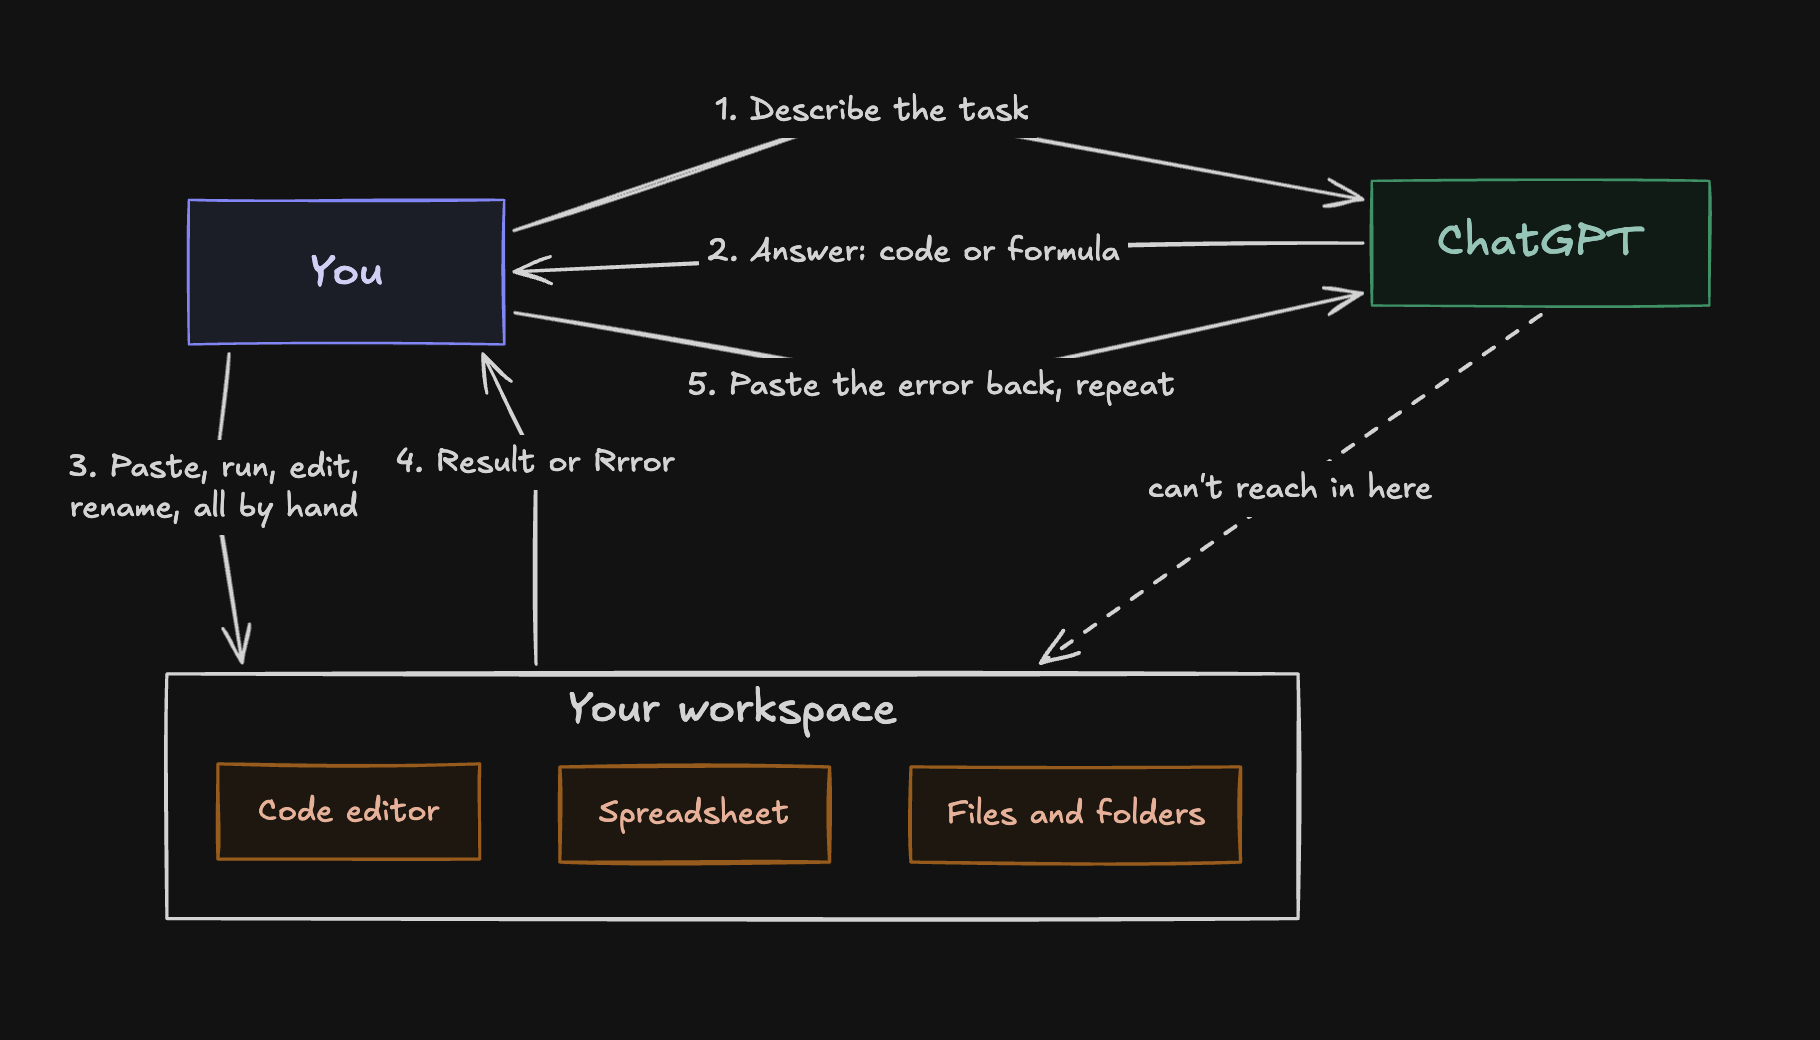
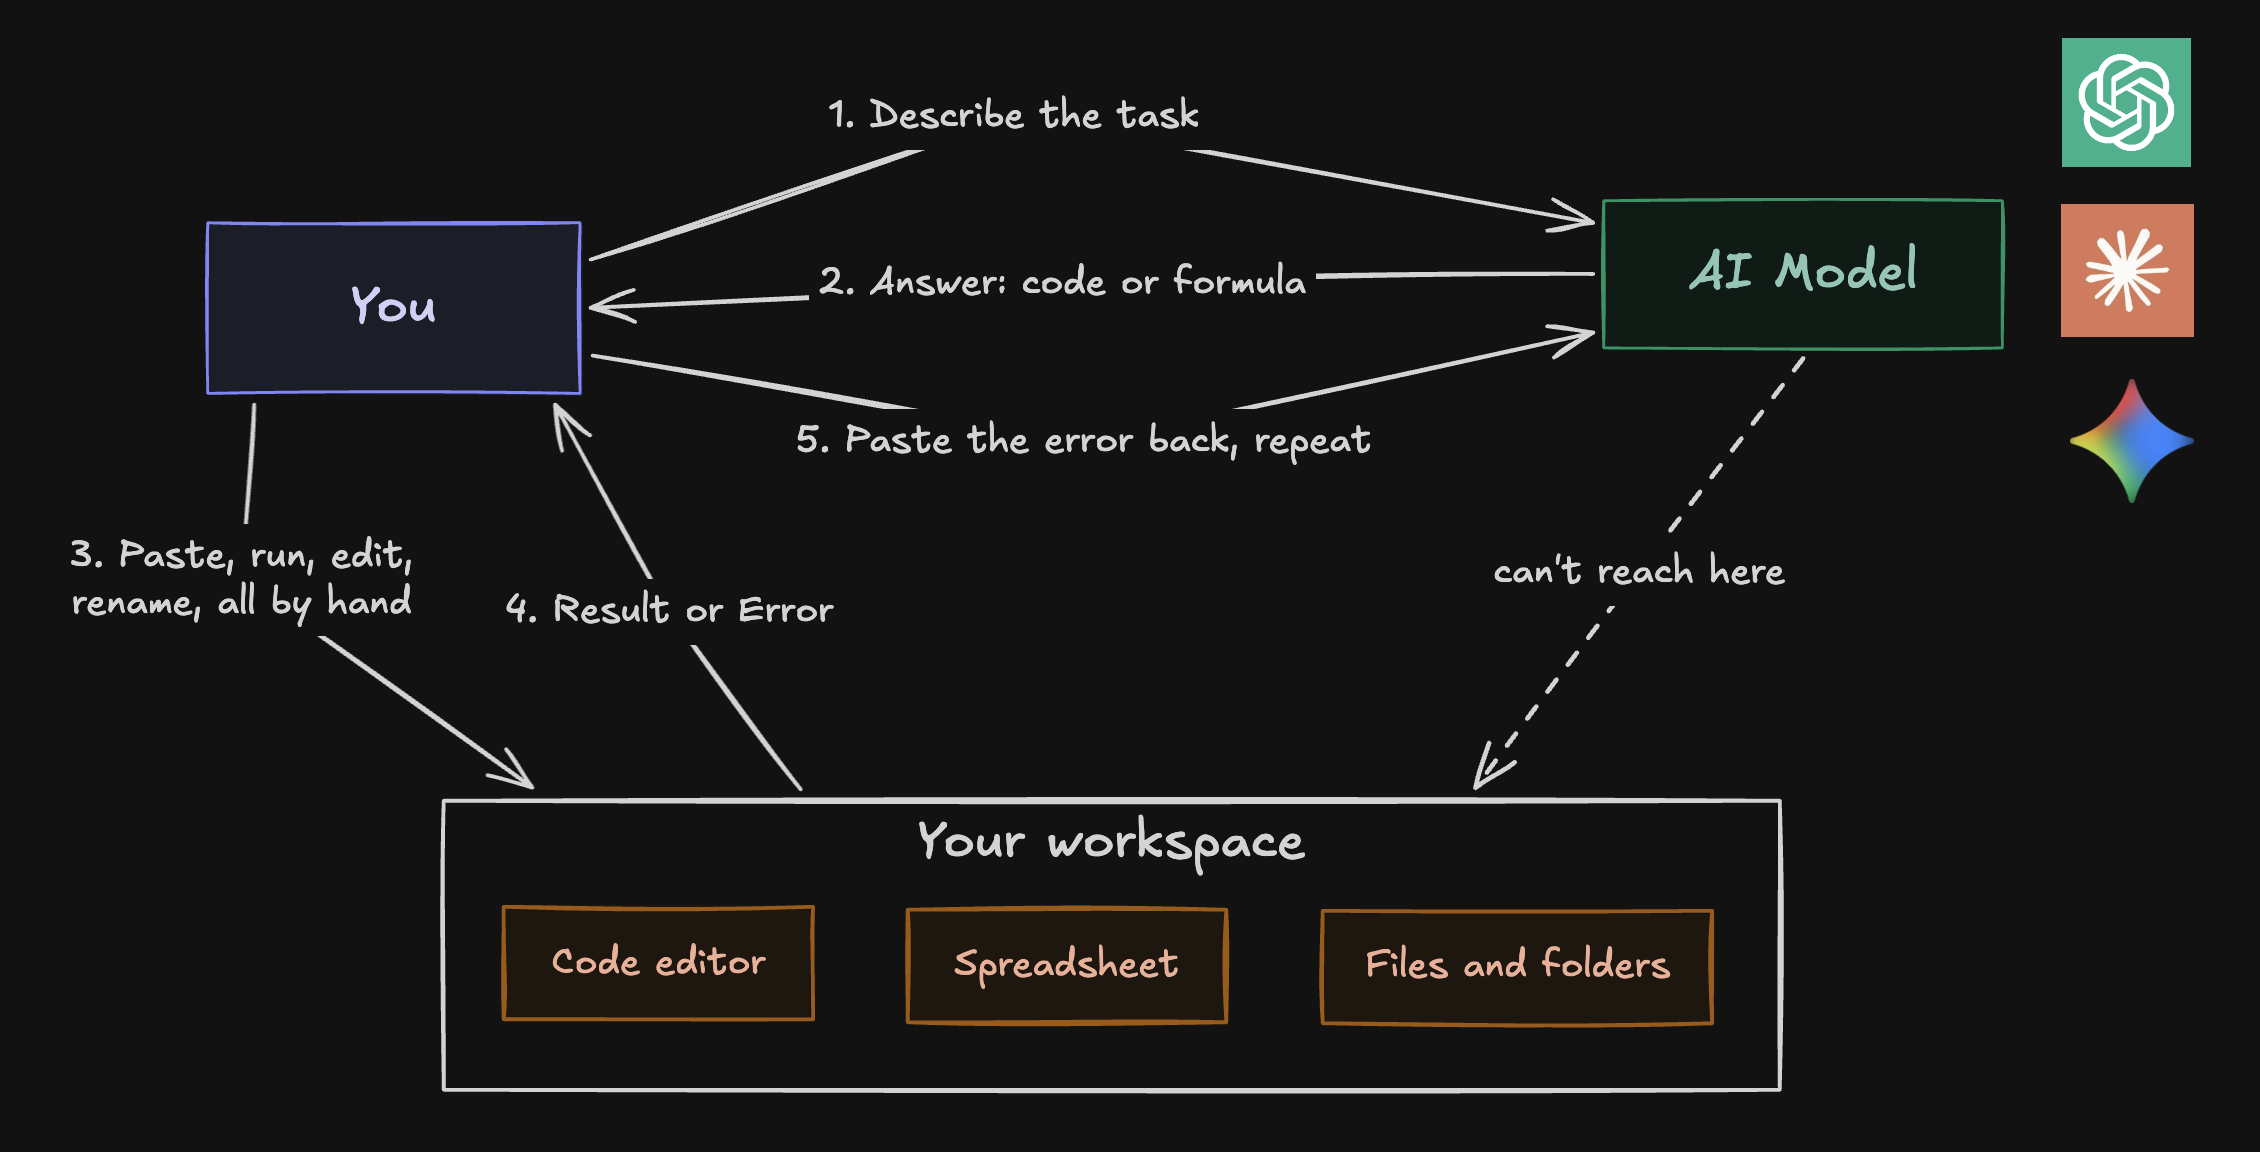
Rework intro scenarios, add agent/swap diagrams, fix post heading styles
Reframe the two opening scenarios (spreadsheet cross-check first, then
coding), add diagram-2 (coding agent) and diagram-3 (agent/model swap),
and restore h2/h3 styles in the post prose that Tailwind Preflight had
flattened. Copy edits throughout.

diff --git a/src/content/posts/set-up-your-ai-coding-agent.md b/src/content/posts/set-up-your-ai-coding-agent.md
@@ -8,11 +8,9 @@ tags: ["ai", "coding-agents", "guide"]
 
 You open [ChatGPT](https://chatgpt.com) or [Claude](https://claude.ai) and ask it to do something for you.
 
-Maybe you ask it to write a function. It writes a good one. You copy the code out, paste it into your editor, and hit run. Something breaks, so you copy the error back into the chat. It apologizes, hands you a fix, and you copy that one out too.
+Let's say it's part of your job, to do a comparison of two spreadsheets which has the same data from two different sources, every week. You have to find out and report the mismatches in the data. To save your time, you paste the spreadsheets into ChatGPT and ask it to do it for you, trusting that each time ChatGPT will do it with 100% accuracy. Another way is to ask ChatGPT for a formula that finds the mismatches and helps you generate a report. This is more accurate but you will have to do the process again if it's a different set of data in another domain.
 
-Or maybe you're pulling the same three fields out of thirty invoices into one spreadsheet. You ask it for a faster way. It explains the steps, or writes you a formula. You still open each file and key it in yourself, thirty times over.
-
-If you've done either, you know the loop. For a while it felt like magic. Maybe it still does, and maybe you still work this way.
+Or maybe you have some coding experience and ask it to write a function and it responds with some code. You copy the code, paste it into your editor, and hit run. Something breaks, so you paste the error back into the chat. It apologizes and hands you a fix, and you copy that one too and repeat.
 
 <figure class="diagram">
 <img class="theme-light-only" src="/images/posts/set-up-your-ai-coding-agent/diagram-1-chat-loop.light.png" alt="You sit between the chat model and your workspace. Every step to your files, editor, and spreadsheet passes through you by hand, and the model never reaches into the workspace." />
@@ -20,9 +18,25 @@ If you've done either, you know the loop. For a while it felt like magic. Maybe 
 <figcaption>The model answers. You do all the work. It never touches your workspace.</figcaption>
 </figure>
 
-There's a lot you can do past that text box.
+In both cases, when you tried it out in the chat box the first time, it felt like magic. Maybe it still feels like magic but...
 
-## What a coding agent changes
+"There's a lot you can do beyond that chat box."
 
-A coding agent closes that gap. It can reach into your workspace and do the work itself. You ask in plain words, same as always, and it handles the rest.
+## Why use a Coding Agent?
+
+A coding agent exactly closes this gap. It can reach into your workspace and do the work itself. You still ask in plain words and it handles the rest.
+
+<figure class="diagram">
+<img class="theme-light-only" src="/images/posts/set-up-your-ai-coding-agent/diagram-2-coding-agent.light.png" alt="You describe the task once. The coding agent, backed by an AI model, writes and runs code in your workspace, reads the result or error, and fixes and reruns it. The loop happens without you passing each step by hand." />
+<img class="theme-dark-only" src="/images/posts/set-up-your-ai-coding-agent/diagram-2-coding-agent.dark.png" alt="You describe the task once. The coding agent, backed by an AI model, writes and runs code in your workspace, reads the result or error, and fixes and reruns it. The loop happens without you passing each step by hand." />
+<figcaption>You describe the task. The agent works in your workspace and runs the loop itself.</figcaption>
+</figure>
+
+You can easily swap the 2 modules - Coding Agent and AI Model. In this doc you'll learn how to set up various combinations of the agent and the model and how much each pairing will cost - starting from the most expensive to the least (free). The quality and performance will not be the same, so you can choose based on your budget and use case.
+
+<figure class="diagram">
+<img class="theme-light-only" src="/images/posts/set-up-your-ai-coding-agent/diagram-3-swap.light.png" alt="The coding-agent slot can be Claude Code, Codex, or Open Code. The agent uses an AI model, and that slot can be Claude, ChatGPT, Open Router, or a local model through Ollama. Either side swaps without changing the other." />
+<img class="theme-dark-only" src="/images/posts/set-up-your-ai-coding-agent/diagram-3-swap.dark.png" alt="The coding-agent slot can be Claude Code, Codex, or Open Code. The agent uses an AI model, and that slot can be Claude, ChatGPT, Open Router, or a local model through Ollama. Either side swaps without changing the other." />
+<figcaption>Pick an agent and a model provider of your choice.</figcaption>
+</figure>
 
